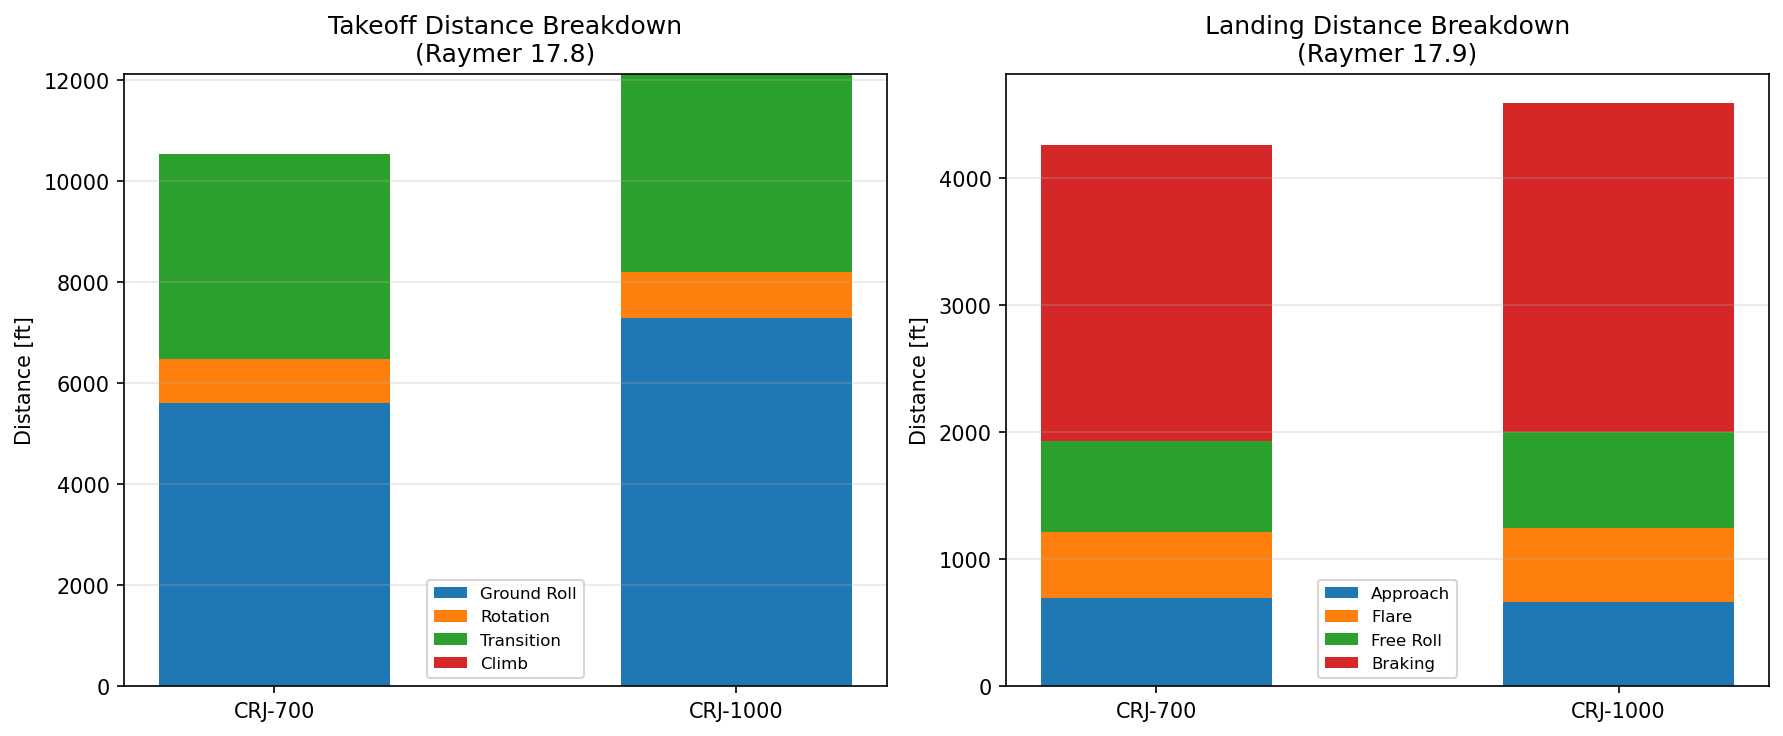
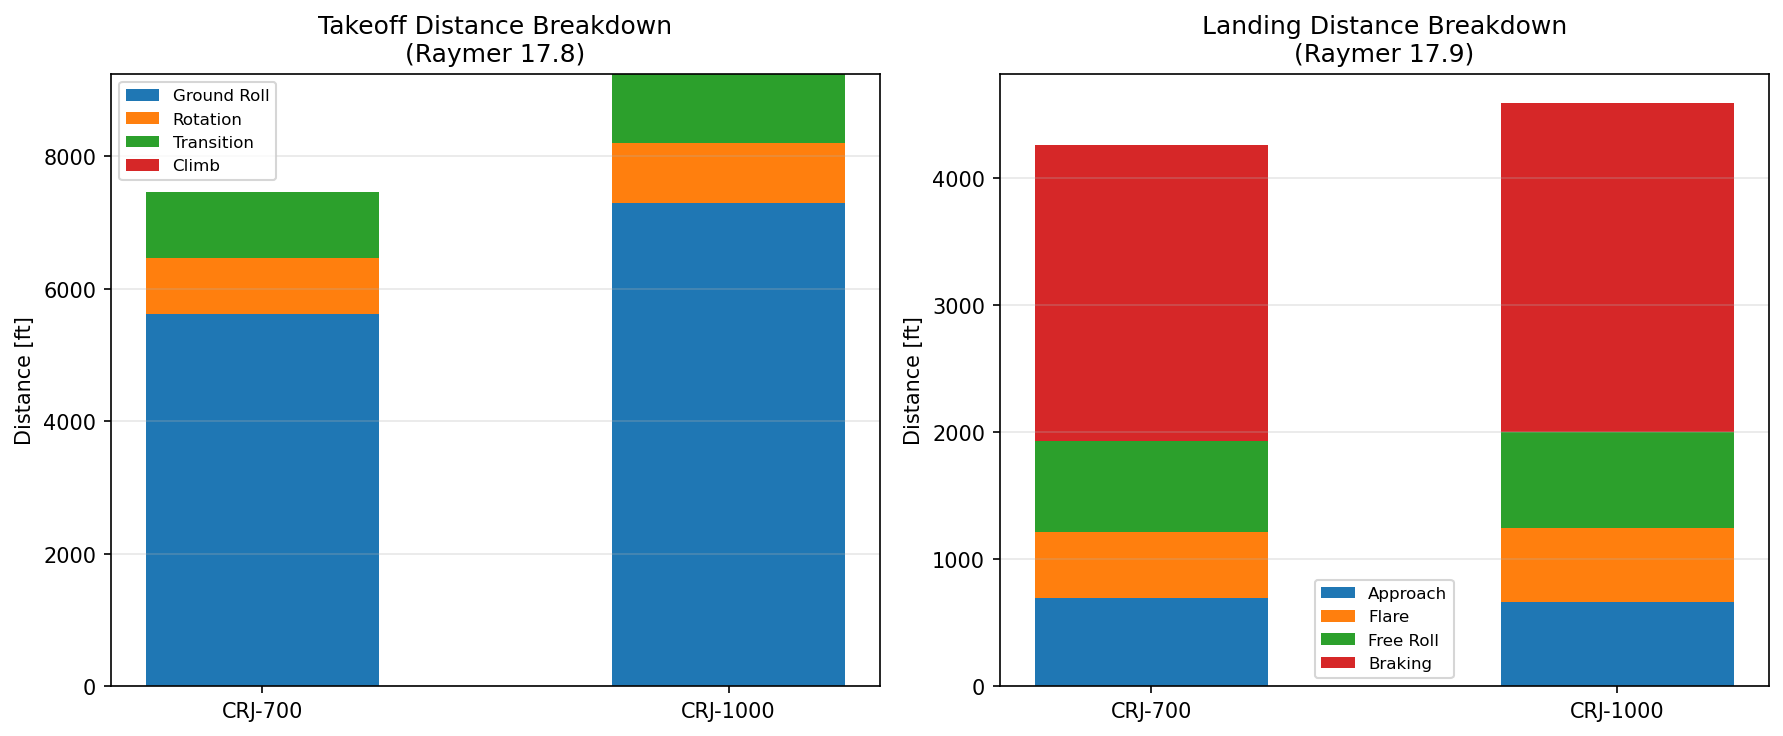
Fix transition arc truncation, add TOFL
- Truncate transition distance at obstacle height when h_TR > h_obstacle
  (was counting full arc, inflating TODR by ~3000 ft)
- Add TOFL = max(TODR×1.15, BFL) to analysis output and summary
- Update README sample output with corrected values

diff --git a/examples/full_analysis.py b/examples/full_analysis.py
@@ -362,6 +362,10 @@ def analyse(ac):
     print(f"    BFL (iterative)       : {v1_result['BFL']:,.0f} ft")
     print(f"    BFL (Raymer Eq.17.113): {bfl_empirical:,.0f} ft")
 
+    # TOFL = max(FAR-factored all-engine TODR, BFL)
+    TOFL = max(to['TODR_factored'], v1_result['BFL'])
+    print(f"\n  >> TOFL (FAR 25)        : {TOFL:,.0f} ft  = max(TODR×1.15, BFL)")
+
     # =================================================================
     # 17.9  LANDING
     # =================================================================
@@ -412,6 +416,7 @@ def analyse(ac):
         ("ASDR at V1",              f"{v1_result['ASDR_at_V1']:,.0f} ft"),
         ("BFL (iterative)",         f"{v1_result['BFL']:,.0f} ft"),
         ("BFL (Raymer Eq.17.113)",  f"{bfl_empirical:,.0f} ft"),
+        ("TOFL (FAR 25)",           f"{TOFL:,.0f} ft"),
         ("LDR (unfactored)",        f"{la['S_total_actual']:,.0f} ft"),
         ("LDR (FAR x1.667)",        f"{la['S_FAR_field']:,.0f} ft"),
         ("Glide range from cruise", f"{R_glide/6076:,.0f} nmi"),
@@ -428,6 +433,7 @@ def analyse(ac):
         "ASDR": v1_result["ASDR_at_V1"],
         "BFL": v1_result["BFL"],
         "BFL_empirical": bfl_empirical,
+        "TOFL": TOFL,
         "LDR": la["S_total_actual"],
         "LDR_FAR": la["S_FAR_field"],
     }
@@ -458,6 +464,7 @@ if __name__ == "__main__":
         ("ASDR at V1 (ft)",    "ASDR",           ",.0f", None),
         ("BFL iterative (ft)", "BFL",            ",.0f", None),
         ("BFL Eq.17.113 (ft)", "BFL_empirical",  ",.0f", None),
+        ("TOFL FAR 25 (ft)",   "TOFL",           ",.0f", None),
         ("LDR (ft)",           "LDR",            ",.0f", None),
         ("LDR FAR (ft)",       "LDR_FAR",        ",.0f", None),
     ]

diff --git a/perf/takeoff.py b/perf/takeoff.py
@@ -173,11 +173,18 @@ def total_takeoff_distance(W, S, T, CD0, CL_ground, K, mu, rho,
     S_R = rotation_distance(V_R, t_rotate)
 
     trans = transition_segment(W, S, rho, CL_max_TO, TW)
-    S_TR = trans["S_TR"]
     h_TR = trans["h_TR"]
     gamma = trans["gamma_rad"]
+    R = trans["R"]
 
-    S_C = climb_distance(h_obstacle, h_TR, gamma) if gamma > 0.01 else 0.0
+    if h_TR >= h_obstacle:
+        # Obstacle cleared during transition — truncate arc at h_obstacle
+        theta = np.arccos(np.clip(1.0 - h_obstacle / R, -1, 1))
+        S_TR = R * np.sin(theta)
+        S_C = 0.0
+    else:
+        S_TR = trans["S_TR"]
+        S_C = climb_distance(h_obstacle, h_TR, gamma) if gamma > 0.01 else 0.0
 
     TODR = S_G + S_R + S_TR + S_C
     TODR_factored = 1.15 * TODR   # FAR 25.113(a): 115% of all-engine distance
@@ -271,11 +278,17 @@ def accelerate_go_distance(W, S, T, CD0, CL_ground, K, mu_roll, rho,
     # Transition and climb (OEI)
     TW_OEI = T_OEI / W
     trans = transition_segment(W, S, rho, CL_max_TO, TW_OEI)
-    S_TR = trans["S_TR"]
     h_TR = trans["h_TR"]
     gamma = trans["gamma_rad"]
+    R = trans["R"]
 
-    S_C = climb_distance(h_obstacle, h_TR, gamma) if gamma > 0.01 else 0.0
+    if h_TR >= h_obstacle:
+        theta = np.arccos(np.clip(1.0 - h_obstacle / R, -1, 1))
+        S_TR = R * np.sin(theta)
+        S_C = 0.0
+    else:
+        S_TR = trans["S_TR"]
+        S_C = climb_distance(h_obstacle, h_TR, gamma) if gamma > 0.01 else 0.0
 
     return S1 + S2 + S_R + S_TR + S_C
 

diff --git a/README.md b/README.md
@@ -181,11 +181,12 @@ Running `python examples/plot_performance.py` generates 10 charts in `examples/c
   Range (nmi)                          2,976         2,359
   Best ROC (fpm)                      11,202         9,393
   Corner spd (kts)                       276           292
-  TODR (ft)                           10,533        12,128
-  TODR FAR (ft)                       12,113        13,947
+  TODR (ft)                            7,455         9,249
+  TODR FAR (ft)                        8,573        10,636
   ASDR at V1 (ft)                      8,520        10,587
   BFL iterative (ft)                   8,521        10,587
   BFL Eq.17.113 (ft)                   7,933         9,808
+  TOFL FAR 25 (ft)                     8,573        10,636
   LDR (ft)                             4,258         4,592
   LDR FAR (ft)                         7,099         7,656
 ```
